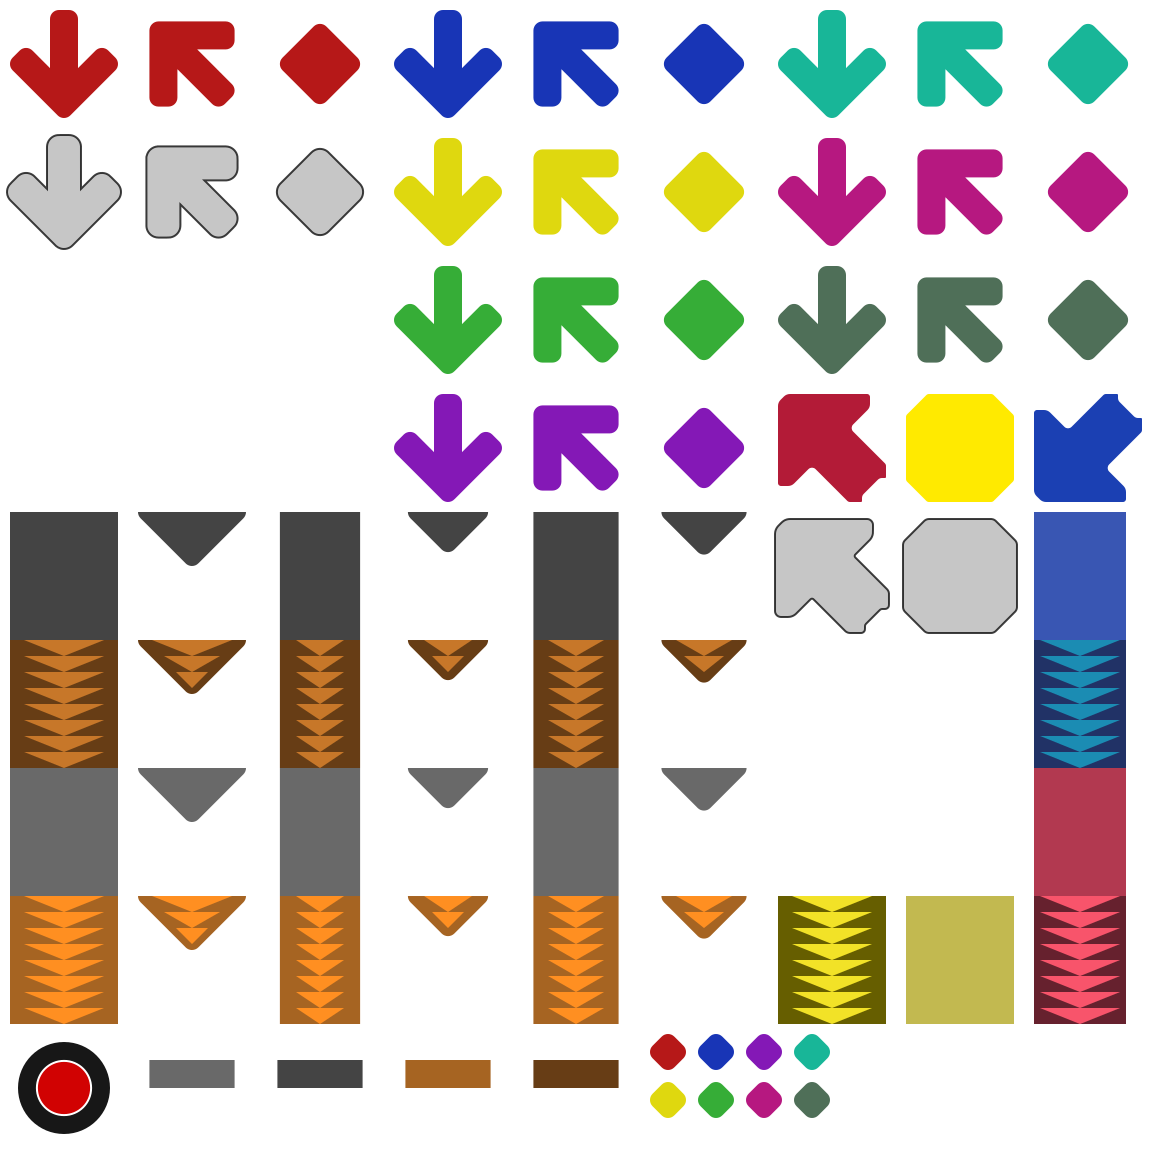
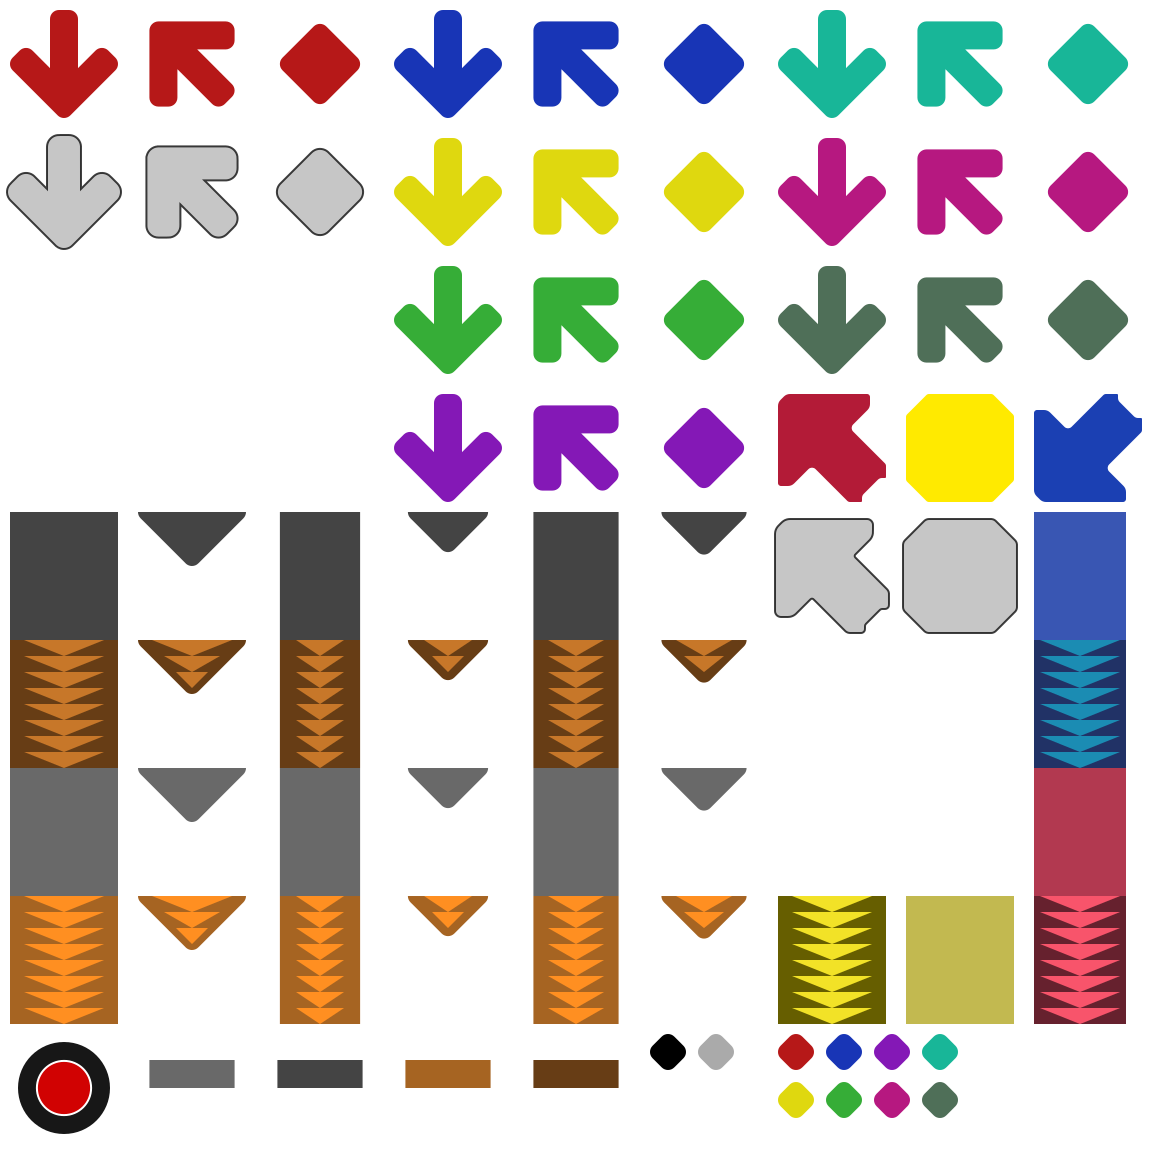
Add fake and lift markers.

Changed region(s): [[0.5625, 0.875, 0.8438, 0.9688]]

diff --git a/StepManiaEditorTextureGenerator/Program.cs b/StepManiaEditorTextureGenerator/Program.cs
@@ -1,5 +1,5 @@
-using System.Drawing.Imaging;
-using System.Drawing;
+using System.Drawing;
+using System.Drawing.Imaging;
 using System.Text.Json;
 using System.Text.Json.Serialization;
 using Fumen;
@@ -122,6 +122,12 @@ internal class TextureGeneratorGame : Game
 		"itg-hold-solo-start-inactive",
 		"itg-roll-solo-start-active",
 		"itg-roll-solo-start-inactive",
+	};
+
+	private static readonly string[] ArrowSpecialTapMarkerIds = new[]
+	{
+		"fake-marker",
+		"lift-marker",
 	};
 
 	private static readonly string[] IconSubImageIds = new[]
@@ -349,8 +355,9 @@ internal class TextureGeneratorGame : Game
 			return;
 
 		ProcessGridOfImages(arrowsTexture, ArrowSquareSubImageIds, 9, 0, 0, 128, 128, 0);
-		ProcessGridOfImages(arrowsTexture, ArrowSnapSubImageIds, 4, 648, 1032, 40, 40, 8);
+		ProcessGridOfImages(arrowsTexture, ArrowSnapSubImageIds, 4, 776, 1032, 40, 40, 8);
 		ProcessGridOfImages(arrowsTexture, ArrowHoldStartSubImageIds, 4, 128, 1060, 128, 28, 0);
+		ProcessGridOfImages(arrowsTexture, ArrowSpecialTapMarkerIds, 2, 648, 1032, 40, 40, 8);
 
 		// Process hold end caps trimmed to their exact height.
 		// This is done because we use the texture size for determining if a click lands on a hold.
@@ -405,7 +412,9 @@ internal class TextureGeneratorGame : Game
 					!(identifier.Contains("receptor")
 					  || identifier.Contains("snap")
 					  || identifier.Contains("glow")
-					  || identifier.Contains("icon"));
+					  || identifier.Contains("icon")
+					  || identifier.Contains("fake")
+					  || identifier.Contains("lift"));
 
 				// Copy the sub-texture out of the source texture.
 				var subTexture = new Texture2D(GraphicsDevice, w, h);
